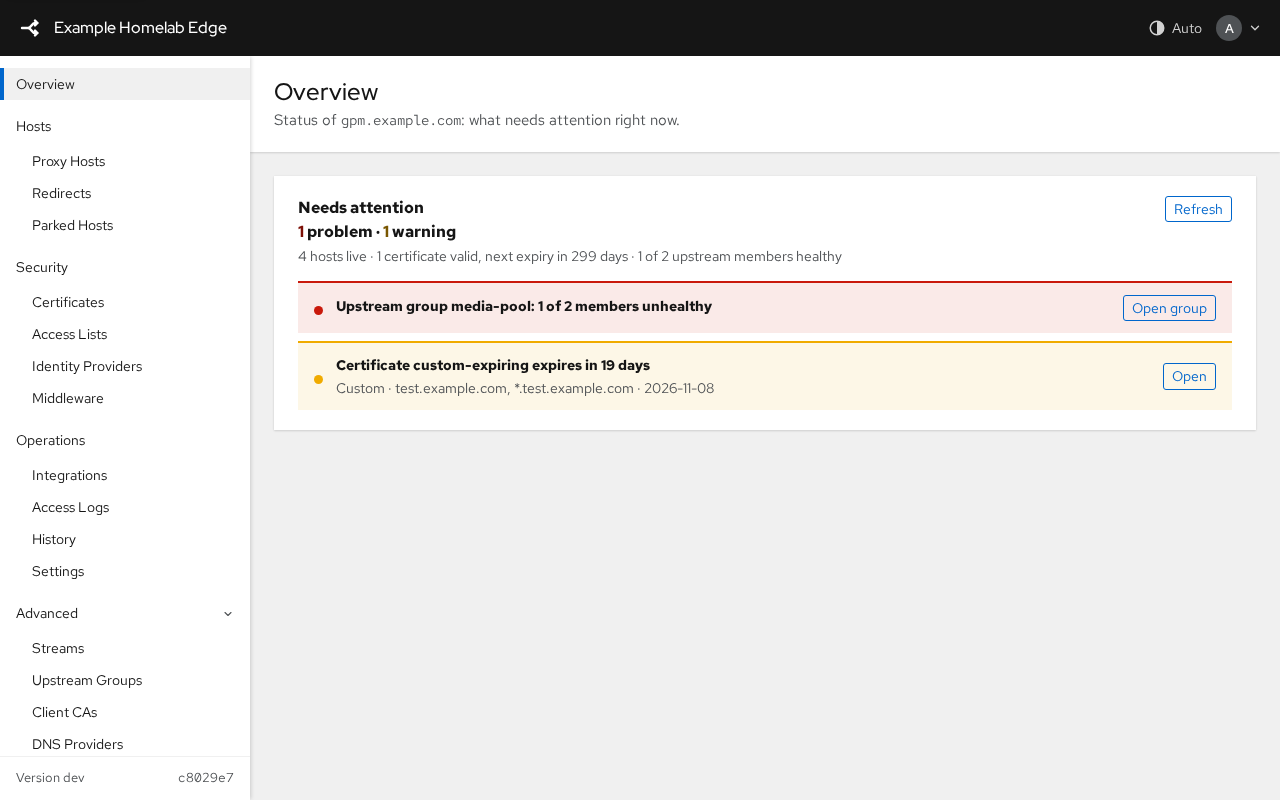
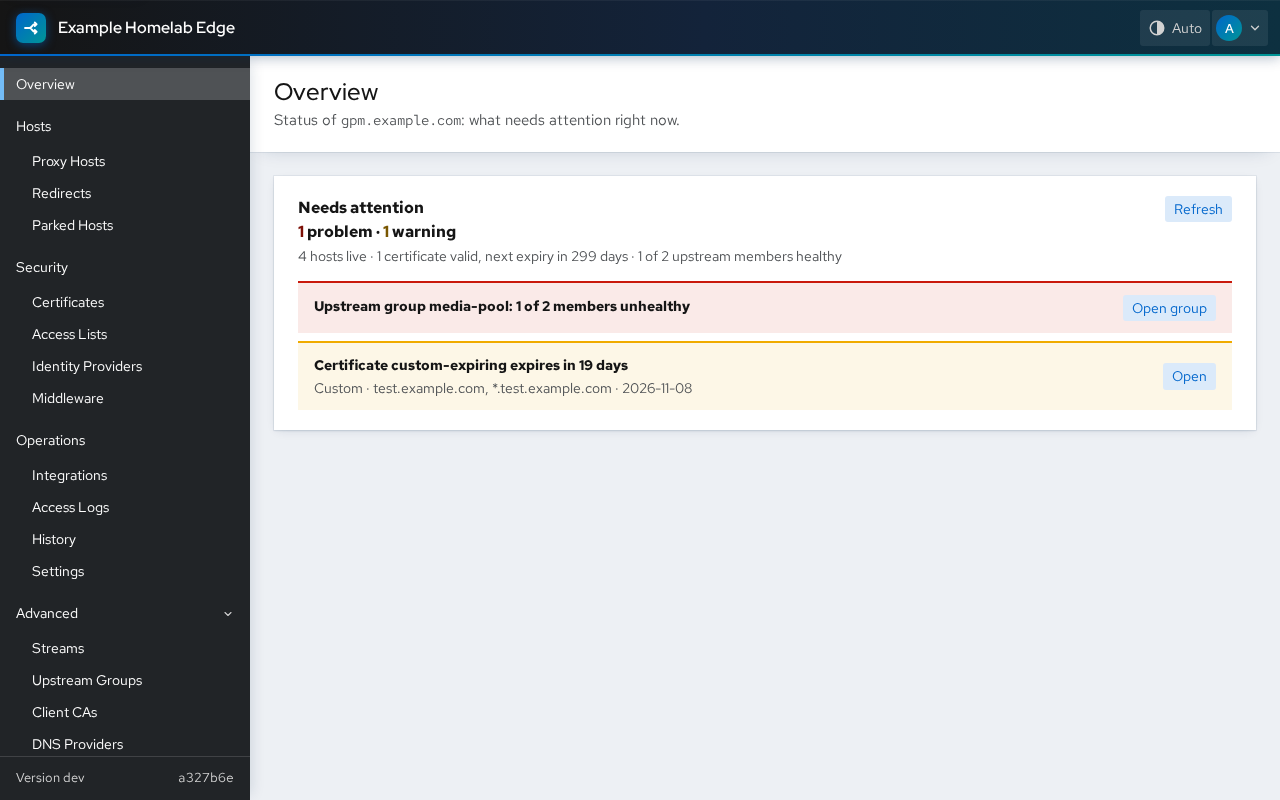
docs: screenshots and GIFs on the drift design; changelog 2.2.0
Every image under docs/assets/ui regenerated on the current build: lists,
editor, dialogs, account menu, settings, history, dark theme, phone, the host
wizard steps and GIF, the first-time setup steps and GIF. The tour now says
the other editors carry Clone and Delete in the title band, that list cards
open on hover or focus, that Settings tabs sit in the band, and that the
sign-in page opens with the masthead. CHANGELOG closes [Unreleased] as 2.2.0.

diff --git a/docs/getting-started/admin-ui-tour.md b/docs/getting-started/admin-ui-tour.md
@@ -24,8 +24,9 @@ Settings.
 
 ## Signing in
 
-The sign-in page shares the app's design and theme. A wrong password, a wrong
-code or a lockout re-renders the page with the reason and keeps the username.
+The sign-in page opens with the app's masthead and shares its design and
+theme. A wrong password, a wrong code or a lockout re-renders the page with the
+reason and keeps the username.
 
 ## The frame
 
@@ -115,8 +116,12 @@ object. With nothing to report it says so and shows the live counts.
   then opens the editor on the copy. Nothing is saved until you press Save.
   Domains are cleared, since a domain belongs to one host; labels and
   secrets are not copied.
-- The other object editors are one page of cards with Clone and Delete in the
-  save bar; Clone asks for the name the same way.
+- The other object editors are one page of cards with the same title band:
+  Clone and Delete (and Renew now on an ACME certificate) sit there too, and
+  Clone asks for the name the same way.
+- On the list pages, a card carries its section's glyph and a go mark; it
+  lifts and lights its top edge on hover or keyboard focus, and the whole card
+  opens the object.
 
 ## Certificates
 
@@ -130,7 +135,7 @@ own; **Renew now** forces it.
 
 ![Settings, General tab](../assets/ui/settings.png)
 
-Settings are four tabs over one object; any tab's Save commits the whole thing.
+Settings are four tabs in the title band over one object; any tab's Save commits the whole thing.
 History lists every commit with its author and lets you revert the whole config
 or one object; Backup and Restore live on the same page.
 

diff --git a/CHANGELOG.md b/CHANGELOG.md
@@ -5,6 +5,8 @@ All notable changes to go-proxy-manager are documented here. The format follows
 
 ## [Unreleased]
 
+## [2.2.0] - 2026-10-19
+
 ### Changed
 
 - Admin UI visual refresh ("drift"): the sidebar is PatternFly's dark rail
@@ -450,7 +452,8 @@ First public release.
   viewer role, Prometheus metrics, and an Overview that lists only what needs
   attention.
 
-[Unreleased]: https://github.com/Rake-Pro/go-proxy-manager/compare/v2.1.0...HEAD
+[Unreleased]: https://github.com/Rake-Pro/go-proxy-manager/compare/v2.2.0...HEAD
+[2.2.0]: https://github.com/Rake-Pro/go-proxy-manager/compare/v2.1.0...v2.2.0
 [2.1.0]: https://github.com/Rake-Pro/go-proxy-manager/compare/v2.0.1...v2.1.0
 [2.0.1]: https://github.com/Rake-Pro/go-proxy-manager/compare/v2.0.0...v2.0.1
 [2.0.0]: https://github.com/Rake-Pro/go-proxy-manager/compare/v1.0.10...v2.0.0

diff --git a/BACKLOG.md b/BACKLOG.md
@@ -463,13 +463,6 @@ reports workspace.
   independent of DNS and of the 5s wait, or make RenewNow's in-progress gate
   observable so the test waits on it instead of on time.
 
-## Before the next main release (drift design, 2026-10-19)
-
-- Regenerate the admin UI tour screenshots and both GIFs under
-  `docs/assets/ui/` (sign-in, lists, editors, dialogs, wizard, setup, phone,
-  dark) on the drift design, and fix the tour text that still says the other
-  editors keep Clone and Delete in the save bar (they are in the title band now).
-
 ## Admin UI consistency round (2026-10-19) leftovers
 
 Source: the adversarial review report `2026-10-19_gpm-ui-adversarial-review`
